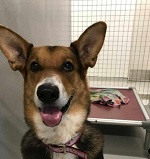
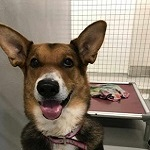
adding comments to testimonials, reuploading imgs

diff --git a/css/g10csstemplatev2.css b/css/g10csstemplatev2.css
@@ -524,7 +524,7 @@ https://www.youtube.com/watch?v=eUMqJMkwOBY&t=9s
 	background: #044603;
 }
 
-/*adding responsive design to the contact box */
+/*adding responsive design to the contact box, designed in a way so that the icons/details will narrow into a column as the webpage shrinks*/
  
 @media (max-width: 820px) {
 	.contactcontainer{
